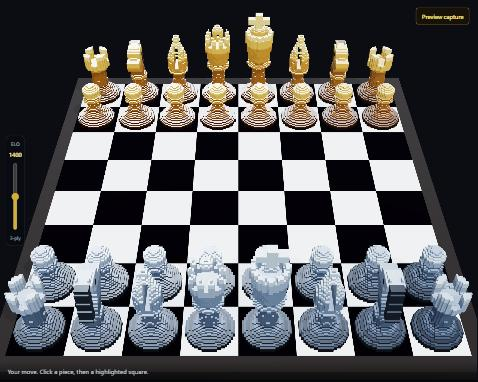
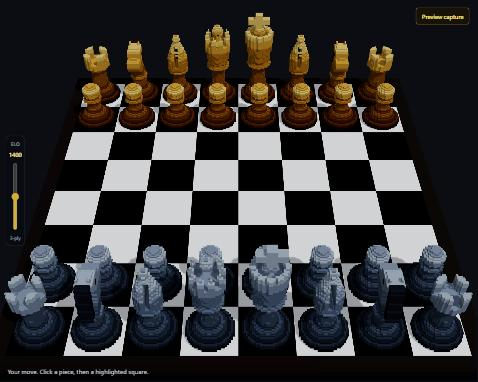
Light the scene locally, and stop claiming what was not true
The README and design notes both said nothing is fetched at runtime.
That was false. Drei's <Environment preset="studio"> downloads an HDR
environment map from a CDN, which is why the board rendered black for
a moment on load -- and why the packaged desktop build would have been
worse than that with no network at all.

Rewording it was the cheaper fix. Removing the fetch is the right one:
the scene is now lit by three lights and a fill, the claim is true, and
the desktop app works offline. Verified rather than assumed -- the page
now issues zero requests outside its own origin across 31 resources.

Also softens the perft wording. Matching published node counts is
strong evidence a generator is correct and failing to match them is
proof it is not, which is a real claim; "impossible to fudge" was
rhetoric dressed as one.

Drops a comment still naming Rapier, removed two commits ago, and adds
the test for isOver('draw') that the draw fix never had: every other
case in that file reaches its state through the engine, and no engine
path there produces a draw, so the regression itself went uncovered.

Screenshots retaken under the new lighting.

diff --git a/src/ui/ChessGame.tsx b/src/ui/ChessGame.tsx
@@ -1,4 +1,4 @@
-import { OrbitControls, PerspectiveCamera, Environment } from '@react-three/drei';
+import { OrbitControls, PerspectiveCamera } from '@react-three/drei';
 import { Canvas } from '@react-three/fiber';
 import { Suspense, useCallback, useEffect, useMemo, useRef, useState } from 'react';
 
@@ -116,7 +116,7 @@ export function ChessGame({ elo: initialElo = 1200 }: { elo?: number }) {
   }, []);
 
   // useFrame stops entirely in a backgrounded tab, so neither the strike's
-  // own progress check nor Rapier can land the hit there. Without this, a
+  // own progress check nor the impact test can land the hit there. Without this, a
   // move begun just before the tab was hidden would never commit.
   useEffect(() => {
     if (!capture || capture.exploded) return;
@@ -233,8 +233,13 @@ export function ChessGame({ elo: initialElo = 1200 }: { elo?: number }) {
           makeDefault
         />
 
-        <ambientLight intensity={0.18} />
-        <hemisphereLight intensity={0.2} groundColor="#000000" />
+        {/* Lit entirely locally. Drei's <Environment preset> would look a
+            little richer, but it downloads an HDR map from a CDN at runtime,
+            which breaks the packaged desktop build offline and makes the
+            board appear black until the fetch lands. Nothing here is
+            fetched: three lights and a fill do the work instead. */}
+        <ambientLight intensity={0.42} />
+        <hemisphereLight intensity={0.5} color="#dce6f5" groundColor="#2a2118" />
         <directionalLight
           position={[10, 20, 10]}
           intensity={1.5}
@@ -247,7 +252,8 @@ export function ChessGame({ elo: initialElo = 1200 }: { elo?: number }) {
           shadow-camera-bottom={-20}
           shadow-bias={-0.0001}
         />
-        <pointLight position={[-10, 15, -10]} intensity={0.5} color="#ccddff" />
+        <pointLight position={[-10, 15, -10]} intensity={0.9} color="#ccddff" />
+        <pointLight position={[8, 6, -12]} intensity={0.45} color="#ffe8c0" />
         <spotLight
           position={[0, 24, 6]}
           angle={0.8}
@@ -258,9 +264,6 @@ export function ChessGame({ elo: initialElo = 1200 }: { elo?: number }) {
           shadow-mapSize={[1024, 1024]}
         />
 
-        <Suspense fallback={null}>
-          <Environment preset="studio" environmentIntensity={0.35} />
-        </Suspense>
         <Suspense fallback={null}>
           <Board selected={selected} validSquares={validSquares} onSelect={onSelect} />
           {pieces.map(({ key, r, c, type }) => (

diff --git a/test/outcomes.test.ts b/test/outcomes.test.ts
@@ -93,6 +93,30 @@ describe('game outcomes', () => {
     const fresh = createInitialState('standard');
     expect(isOver(fresh.status)).toBe(false);
   });
+
+  /**
+   * The bug this guards: `isHumanTurn` once excluded checkmate and stalemate
+   * but not draws, so a drawn game went on accepting moves. Every other test
+   * here reaches its state through the engine, and no engine path in this
+   * file produces 'draw', so the regression itself was never covered.
+   */
+  it('counts a draw as over, like the other terminal states', () => {
+    expect(isOver('draw')).toBe(true);
+
+    // The white king takes the last black piece, leaving king against king:
+    // neither side can force a win, so the game is drawn on the spot.
+    const state = emptyBoard();
+    put(state, [0, 0], 'K', 'b', 'bK');
+    put(state, [4, 4], 'K', 'w', 'wK');
+    put(state, [3, 4], 'Q', 'b', 'bQ');
+    state.turn = 'w';
+
+    const after = moveTo(state, [4, 4], [3, 4]);
+
+    expect(after.status).toBe('draw');
+    expect(after.winner).toBeNull();
+    expect(isOver(after.status)).toBe(true);
+  });
 });
 
 /**

diff --git a/docs/DESIGN-NOTES.md b/docs/DESIGN-NOTES.md
@@ -10,9 +10,10 @@ Chess engines fail quietly. A move generator can be wrong about en passant
 for years and still look like it plays chess.
 
 So correctness here is measured with **perft**: generate every legal move to a
-fixed depth and count the leaf nodes. Those counts are published, identical
-for every correct engine, and impossible to fudge — the initial position has
-exactly 197,281 nodes at depth 4 or the generator is broken.
+fixed depth and count the leaf nodes. Those counts are published and identical
+for every correct engine — the initial position has exactly 197,281 nodes at
+depth 4. Matching them is strong evidence the generator is right; failing to
+match them is proof that it is not.
 
 `test/perft.test.ts` checks four positions, including Kiwipete (dense with
 castling and pins) and two endgames chosen because they catch en-passant and
@@ -40,9 +41,14 @@ what the setting does.
 
 ## Pieces are generated, not loaded
 
-No model files ship and nothing is fetched at runtime. Each piece is built by
-filling a sparse voxel grid in code; a culled mesher then emits only the faces
-that touch air, as indexed geometry with per-vertex colour.
+No model files ship. Each piece is built by filling a sparse voxel grid in
+code; a culled mesher then emits only the faces that touch air, as indexed
+geometry with per-vertex colour.
+
+The scene is also lit entirely locally. Drei's `<Environment preset>` looks
+richer, but it downloads an HDR map from a CDN at runtime — which left the
+board black until the fetch landed, and would have broken the packaged
+desktop build offline altogether. Three lights and a fill replaced it.
 
 **Resolution was argued up twice.** Below roughly 32 cells across, every piece
 collapses into the same turned blob and only height tells them apart. A chess

diff --git a/README.md b/README.md
@@ -1,15 +1,16 @@
 # Voxel Chess
 
 A chess engine with a verified move generator, and a 3D board to play it on.
-Everything you see is generated in code — no model files, no downloaded
-assets.
+Every piece, weapon and effect is generated in code — no imported models, and
+nothing fetched at runtime, so the desktop build works offline.
 
 ![The board](docs/images/board.jpg)
 
 The engine is the point. Its move generation is checked against published
-**perft** node counts, which are identical for every correct engine and
-impossible to fudge: the initial position has exactly 197,281 legal
-continuations at depth 4, or the generator is broken.
+**perft** node counts, which are identical for every correct engine: the
+initial position has exactly 197,281 legal continuations at depth 4. Matching
+them is strong evidence the generator is right, and failing to is proof that
+it is not.
 
 | | |
 |---|---|
@@ -85,7 +86,7 @@ What they actually cover:
   fallback to inline execution so a failed worker degrades instead of breaking.
 - **`src/voxel/`** — a sparse voxel grid and a culled mesher that emits only
   the faces touching air. The pieces and the weapons are both built with it.
-- **`src/ui/`** — React Three Fiber. The engine commits a move only after the
+- **`src/ui/`** — React Three Fiber, lit with local lights only. The engine commits a move only after the
   capture animation resolves, so `engine.ts` never learns the effects exist.
 
 [`docs/DESIGN-NOTES.md`](docs/DESIGN-NOTES.md) covers the decisions that were
